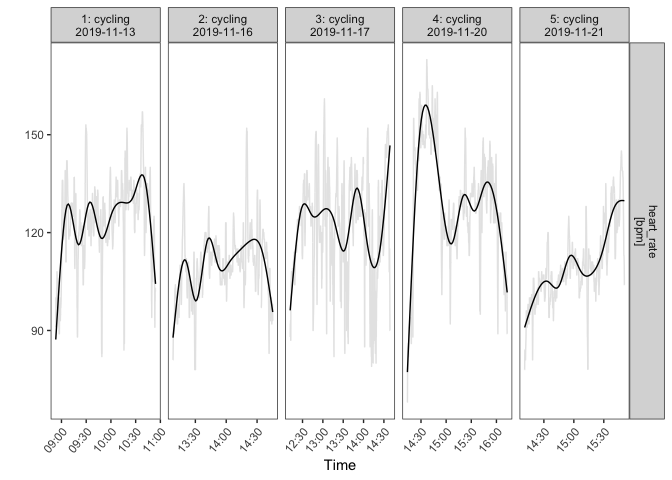
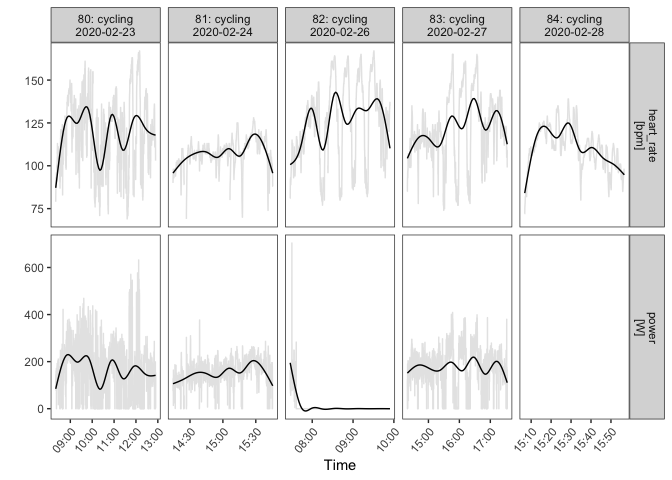
readme updates

diff --git a/README.md b/README.md
@@ -242,7 +242,7 @@ for further analyses.
 
     library("trackeR")
     athlete1 <- b79[[1]]
-    plot(athlete1, session = 1:5, what = c("power", "heart_rate"))
+    plot(athlete1, session = 80:84, what = c("power", "heart_rate"))
 
 <img src="man/figures/README-trackeRdata-1.png" width="100%" />
 
